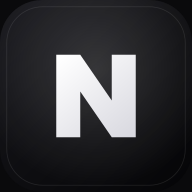
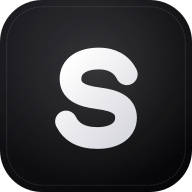
Rename the download page to Study Hall
Swap the wordmark, page copy, manifest metadata and the S mark in every icon,
and rename the APK to StudyHall-1.0.apk so the served file matches the brand.

Generated with Codebuff 🤖

diff --git a/index.html b/index.html
@@ -3,14 +3,14 @@
 <head>
 <meta charset="utf-8" />
 <meta name="viewport" content="width=device-width, initial-scale=1, viewport-fit=cover" />
-<title>NexusOS — Download for Android &amp; iOS</title>
-<meta name="description" content="Install NexusOS on your phone. A signed %SIZE% Android app, or the iPhone and iPad app installed from Safari — the same private study workspace with subjects, timetable, tasks, habits and reports." />
+<title>Study Hall — Download for Android &amp; iOS</title>
+<meta name="description" content="Install Study Hall on your phone. A signed %SIZE% Android app, or the iPhone and iPad app installed from Safari — the same private study workspace with subjects, timetable, tasks, habits and reports." />
 <meta name="theme-color" content="#0a0a0c" />
 <meta name="color-scheme" content="dark" />
 <link rel="icon" href="/icon.svg" type="image/svg+xml" />
 <link rel="apple-touch-icon" href="/icon-192.png" />
-<meta property="og:title" content="NexusOS — Android &amp; iOS" />
-<meta property="og:description" content="Download NexusOS for Android or install it on iPhone and iPad, then sign in to your own study workspace." />
+<meta property="og:title" content="Study Hall — Android &amp; iOS" />
+<meta property="og:description" content="Download Study Hall for Android or install it on iPhone and iPad, then sign in to your own study workspace." />
 <meta property="og:image" content="/icon-512.png" />
 <link rel="preconnect" href="https://fonts.googleapis.com" />
 <link rel="preconnect" href="https://fonts.gstatic.com" crossorigin />
@@ -25,7 +25,7 @@
 <header class="topbar">
   <a class="brand" href="/">
     <img src="/icon.svg" alt="" width="28" height="28" />
-    <span>NexusOS</span>
+    <span>Study Hall</span>
   </a>
   <nav class="topnav">
     <a href="#install">Install</a>
@@ -42,7 +42,7 @@
     <p class="eyebrow"><span class="dot"></span> Android &amp; iOS · v%VERSION%</p>
     <h1>Your study workspace,<br />on your home screen.</h1>
     <p class="lede">
-      NexusOS opens the same private workspace you use on the web — your subjects, timetable,
+      Study Hall opens the same private workspace you use on the web — your subjects, timetable,
       tasks, habits and reports — in a fullscreen app with no browser bars, on Android and on
       iPhone or iPad.
     </p>
@@ -59,9 +59,9 @@
 
   <section class="app-card">
     <div class="app-identity">
-      <img src="/icon-192.png" alt="NexusOS app icon" width="64" height="64" />
+      <img src="/icon-192.png" alt="Study Hall app icon" width="64" height="64" />
       <div>
-        <h2>NexusOS</h2>
+        <h2>Study Hall</h2>
         <p>Student productivity OS</p>
       </div>
     </div>
@@ -77,7 +77,7 @@
     <div class="showcase-tile">
       <div class="showcase-fx" data-mount="ripple-tile" aria-hidden="true"></div>
       <div class="showcase-overlay">
-        <span class="showcase-mark">NexusOS</span>
+        <span class="showcase-mark">Study Hall</span>
         <span class="showcase-kicker">Move across the surface</span>
       </div>
     </div>
@@ -99,11 +99,11 @@
       <li>
         <span class="step-num">03</span>
         <h3>Sign in and go</h3>
-        <p>Open NexusOS from your home screen and sign in with the same account you use on the web. Your workspace appears as you left it.</p>
+        <p>Open Study Hall from your home screen and sign in with the same account you use on the web. Your workspace appears as you left it.</p>
       </li>
     </ol>
     <p class="note">
-      Play Protect may show a warning for any app installed outside the Play Store. NexusOS is a verified,
+      Play Protect may show a warning for any app installed outside the Play Store. Study Hall is a verified,
       self-signed release — choose <strong>Install anyway</strong> to continue.
     </p>
   </section>
@@ -131,7 +131,7 @@
         <span class="step-num">03</span>
         <h3>Launch it from the home screen</h3>
         <p>
-          The icon opens NexusOS fullscreen with no browser bars, and signing in brings back the
+          The icon opens Study Hall fullscreen with no browser bars, and signing in brings back the
           same subjects, timetable and progress you have on Android and the web.
         </p>
       </li>
@@ -171,11 +171,11 @@
     <div class="faq">
       <details open>
         <summary>Is this safe to install?</summary>
-        <p>Yes. The file is a signed release built from the open-source NexusOS project, and the checksum above matches it byte for byte. You can verify the download before installing it.</p>
+        <p>Yes. The file is a signed release built from the open-source Study Hall project, and the checksum above matches it byte for byte. You can verify the download before installing it.</p>
       </details>
       <details>
         <summary>Why isn't it on the Play Store?</summary>
-        <p>NexusOS is an open-source project published directly, so releases ship the moment they're built instead of waiting on a store review.</p>
+        <p>Study Hall is an open-source project published directly, so releases ship the moment they're built instead of waiting on a store review.</p>
       </details>
       <details>
         <summary>Do I need Chrome on my phone?</summary>
@@ -200,7 +200,7 @@
 <footer>
   <div class="foot-left">
     <img src="/icon.svg" alt="" width="20" height="20" />
-    <span>NexusOS · v%VERSION%</span>
+    <span>Study Hall · v%VERSION%</span>
   </div>
   <div class="foot-links">
     <a href="https://nexusos-sigma.vercel.app" target="_blank" rel="noreferrer noopener">Web app</a>

diff --git a/public/styles.css b/public/styles.css
@@ -1,4 +1,4 @@
-/* NexusOS download site — mirrors the app's monochrome glass theme
+/* Study Hall download site — mirrors the app's monochrome glass theme
    (black canvas, white primary, Inter + IBM Plex Mono, 1rem radii). */
 
 :root {

diff --git a/worker.js b/worker.js
@@ -1,4 +1,4 @@
-// Static asset server for the NexusOS download page.
+// Static asset server for the Study Hall download page.
 export default {
   async fetch(request, env) {
     return env.ASSETS.fetch(request);

diff --git a/README.md b/README.md
@@ -1,6 +1,6 @@
-# NexusOS — app download page
+# Study Hall — app download page
 
-The public download page for [NexusOS](https://nexusos-sigma.vercel.app), the student
+The public download page for [Study Hall](https://nexusos-sigma.vercel.app), the student
 productivity workspace. Visitors land here, install the signed APK on Android, or add the
 web app to their home screen on iOS.
 
@@ -13,7 +13,7 @@ src/main.jsx            page content and interactions
 src/effects/            RippleDistortion, FlyingButton, SideRays, SwarmCursor
 public/styles.css       monochrome theme shared with the app
 public/styles-sections.css  section-level styles
-public/NexusOS-1.0.apk  signed release build
+public/Study Hall-1.0.apk  signed release build
 public/icon*.{svg,png}  app icons
 public/art/             ripple and spotlight surfaces
 scripts/release.mjs     reads version, size and SHA-256 out of the APK
@@ -43,7 +43,7 @@ npm run preview    # serve dist locally
 Get the checksum with:
 
 ```bash
-sha256sum public/NexusOS-1.0.apk
+sha256sum public/Study Hall-1.0.apk
 ```
 
 ## iOS
@@ -58,7 +58,7 @@ notarised, so a sideloaded build is not an option.
 - Requires Android 7.0+ and a browser that supports Android Custom Tabs (Chrome)
 - It is a Trusted Web Activity: the app renders the live site fullscreen, so product
   updates ship without a new APK
-- Signed with the NexusOS release key. The same key must sign every future build — a
+- Signed with the Study Hall release key. The same key must sign every future build — a
   different key installs as a separate app and breaks updates.
 - Digital Asset Links live in the main app repo at
   `public/.well-known/assetlinks.json` and are served from
